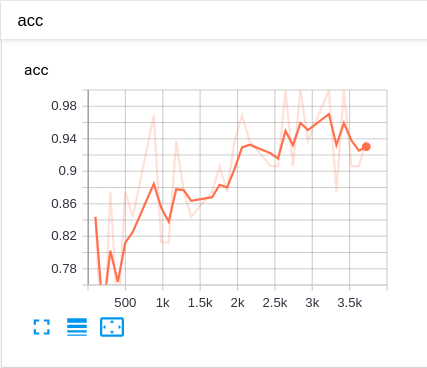
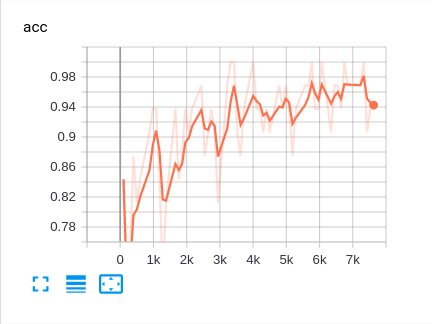
add glove embedding model

diff --git a/README.md b/README.md
@@ -15,19 +15,58 @@ Try to use lstm to complete sentiment analysis task
 :-------------------------:|:-------------------------:
 Displayed Loss on Tensorboard |  Displayed Accuracy on Tensorboard
 ```shell script
-Epoch 0 : Step 625 => Train Loss: 0.2953 | Train ACC: 0.8750: 100%|██████████| 625/625 [03:58<00:00,  2.62it/s]
-Epoch 0 : Step 155 => Val Loss: 0.3365 | Val ACC: 0.8560 
-Epoch 1 : Step 625 => Train Loss: 0.1731 | Train ACC: 0.9375: 100%|██████████| 625/625 [03:56<00:00,  2.64it/s]
-Epoch 1 : Step 155 => Val Loss: 0.2158 | Val ACC: 0.9123 
-Epoch 2 : Step 625 => Train Loss: 0.1563 | Train ACC: 0.9375: 100%|██████████| 625/625 [03:55<00:00,  2.65it/s]
-Epoch 2 : Step 155 => Val Loss: 0.1545 | Val ACC: 0.9413 
-Epoch 3 : Step 625 => Train Loss: 0.2645 | Train ACC: 0.9062: 100%|██████████| 625/625 [03:56<00:00,  2.64it/s]
-Epoch 3 : Step 155 => Val Loss: 0.1377 | Val ACC: 0.9493 
-Epoch 4 : Step 625 => Train Loss: 0.1131 | Train ACC: 0.9688: 100%|██████████| 625/625 [03:55<00:00,  2.66it/s]
-Epoch 4 : Step 155 => Val Loss: 0.1121 | Val ACC: 0.9593 
+Epoch 0 : Step 625 => Train Loss: 0.3316 | Train ACC: 0.8438: 100%|██████████| 625/625 [03:53<00:00,  2.68it/s]
+Epoch 0 : Step 155 => Val Loss: 0.3394 | Val ACC: 0.8530 
+Epoch 1 : Step 625 => Train Loss: 0.2579 | Train ACC: 0.9375: 100%|██████████| 625/625 [03:51<00:00,  2.70it/s]
+Epoch 1 : Step 155 => Val Loss: 0.2249 | Val ACC: 0.9085 
+Epoch 2 : Step 625 => Train Loss: 0.2569 | Train ACC: 0.9375: 100%|██████████| 625/625 [03:54<00:00,  2.67it/s]
+Epoch 2 : Step 155 => Val Loss: 0.1594 | Val ACC: 0.9431 
+Epoch 3 : Step 625 => Train Loss: 0.2366 | Train ACC: 0.9062: 100%|██████████| 625/625 [03:54<00:00,  2.66it/s]
+Epoch 3 : Step 155 => Val Loss: 0.1417 | Val ACC: 0.9449 
+Epoch 4 : Step 625 => Train Loss: 0.0791 | Train ACC: 0.9688: 100%|██████████| 625/625 [03:55<00:00,  2.65it/s]
+Epoch 4 : Step 155 => Val Loss: 0.1116 | Val ACC: 0.9583 
+Epoch 5 : Step 625 => Train Loss: 0.1854 | Train ACC: 0.9375: 100%|██████████| 625/625 [03:55<00:00,  2.65it/s]
+Epoch 5 : Step 155 => Val Loss: 0.1075 | Val ACC: 0.9637 
+Epoch 6 : Step 625 => Train Loss: 0.0466 | Train ACC: 0.9688: 100%|██████████| 625/625 [03:56<00:00,  2.64it/s]
+Epoch 6 : Step 155 => Val Loss: 0.0861 | Val ACC: 0.9710 
+Epoch 7 : Step 625 => Train Loss: 0.0728 | Train ACC: 0.9688: 100%|██████████| 625/625 [03:52<00:00,  2.69it/s]
+Epoch 7 : Step 155 => Val Loss: 0.0800 | Val ACC: 0.9726 
+Epoch 8 : Step 625 => Train Loss: 0.1130 | Train ACC: 0.9375: 100%|██████████| 625/625 [03:56<00:00,  2.64it/s]
+Epoch 8 : Step 155 => Val Loss: 0.0836 | Val ACC: 0.9738 
+Epoch 9 : Step 625 => Train Loss: 0.0421 | Train ACC: 1.0000: 100%|██████████| 625/625 [03:56<00:00,  2.64it/s]
+Epoch 9 : Step 155 => Val Loss: 0.0759 | Val ACC: 0.9728 
+model training has complete
 ```
 
 ### use glove model
+![glove loss](./docs/glove_loss.png)      |  ![scratch acc](./docs/glove_acc.png)
+:-------------------------:|:-------------------------:
+Displayed Loss on Tensorboard |  Displayed Accuracy on Tensorboard
+```shell script
+Epoch 0 : Step 625 => Train Loss: 0.5464 | Train ACC: 0.6875: 100%|██████████| 625/625 [03:55<00:00,  2.66it/s]
+Epoch 0 : Step 155 => Val Loss: 0.3442 | Val ACC: 0.8586 
+Epoch 1 : Step 625 => Train Loss: 0.1659 | Train ACC: 0.9062: 100%|██████████| 625/625 [03:53<00:00,  2.67it/s]
+Epoch 1 : Step 155 => Val Loss: 0.2450 | Val ACC: 0.9032 
+Epoch 2 : Step 625 => Train Loss: 0.1758 | Train ACC: 0.9062: 100%|██████████| 625/625 [03:53<00:00,  2.67it/s]
+Epoch 2 : Step 155 => Val Loss: 0.1878 | Val ACC: 0.9279 
+Epoch 3 : Step 625 => Train Loss: 0.0391 | Train ACC: 1.0000: 100%|██████████| 625/625 [03:53<00:00,  2.67it/s]
+Epoch 3 : Step 155 => Val Loss: 0.1575 | Val ACC: 0.9423 
+Epoch 4 : Step 625 => Train Loss: 0.0295 | Train ACC: 1.0000: 100%|██████████| 625/625 [03:54<00:00,  2.67it/s]
+Epoch 4 : Step 155 => Val Loss: 0.1256 | Val ACC: 0.9561 
+Epoch 5 : Step 625 => Train Loss: 0.3401 | Train ACC: 0.8438: 100%|██████████| 625/625 [03:53<00:00,  2.67it/s]
+Epoch 5 : Step 155 => Val Loss: 0.1105 | Val ACC: 0.9569 
+Epoch 6 : Step 625 => Train Loss: 0.1821 | Train ACC: 0.9375: 100%|██████████| 625/625 [03:54<00:00,  2.67it/s]
+Epoch 6 : Step 155 => Val Loss: 0.1420 | Val ACC: 0.9467 
+Epoch 7 : Step 625 => Train Loss: 0.1633 | Train ACC: 0.9688: 100%|██████████| 625/625 [03:53<00:00,  2.67it/s]
+Epoch 7 : Step 155 => Val Loss: 0.1103 | Val ACC: 0.9603 
+Epoch 8 : Step 625 => Train Loss: 0.2344 | Train ACC: 0.9062: 100%|██████████| 625/625 [03:54<00:00,  2.67it/s]
+Epoch 8 : Step 155 => Val Loss: 0.1095 | Val ACC: 0.9605 
+Epoch 9 : Step 625 => Train Loss: 0.1249 | Train ACC: 0.9375: 100%|██████████| 625/625 [03:53<00:00,  2.67it/s]
+Epoch 9 : Step 155 => Val Loss: 0.0939 | Val ACC: 0.9675 
+model training has complete
 
+```
 
 ## TODO
+
+Bidirectional-LSTM 
